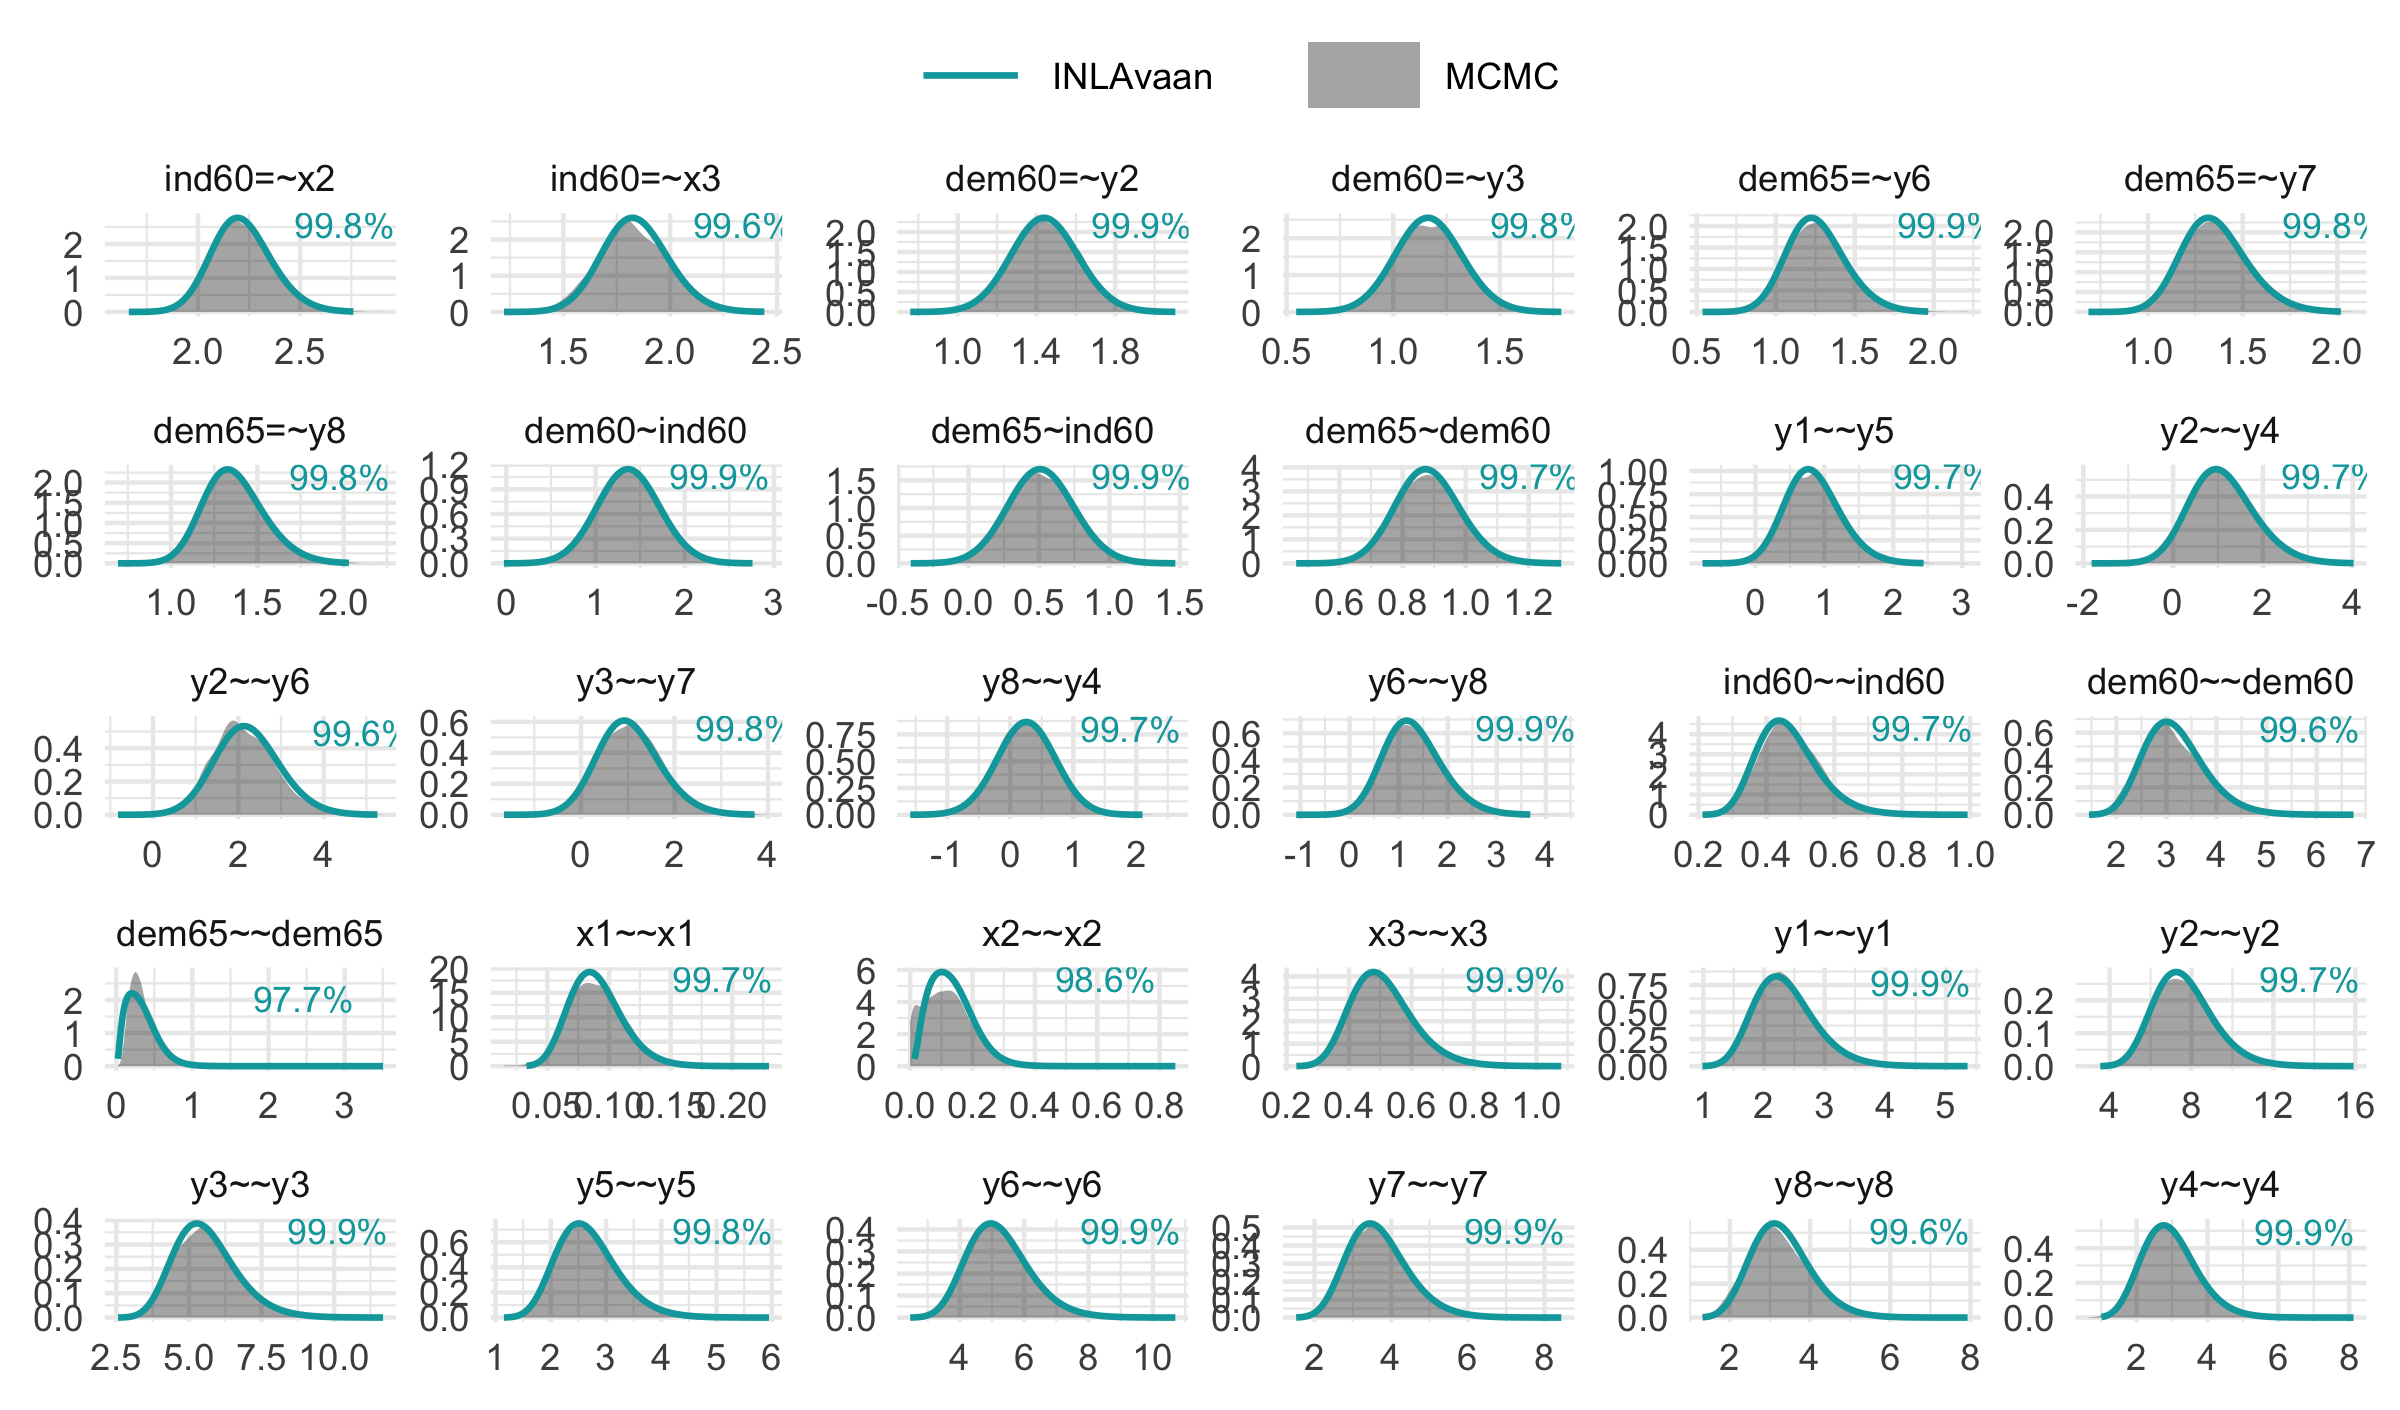
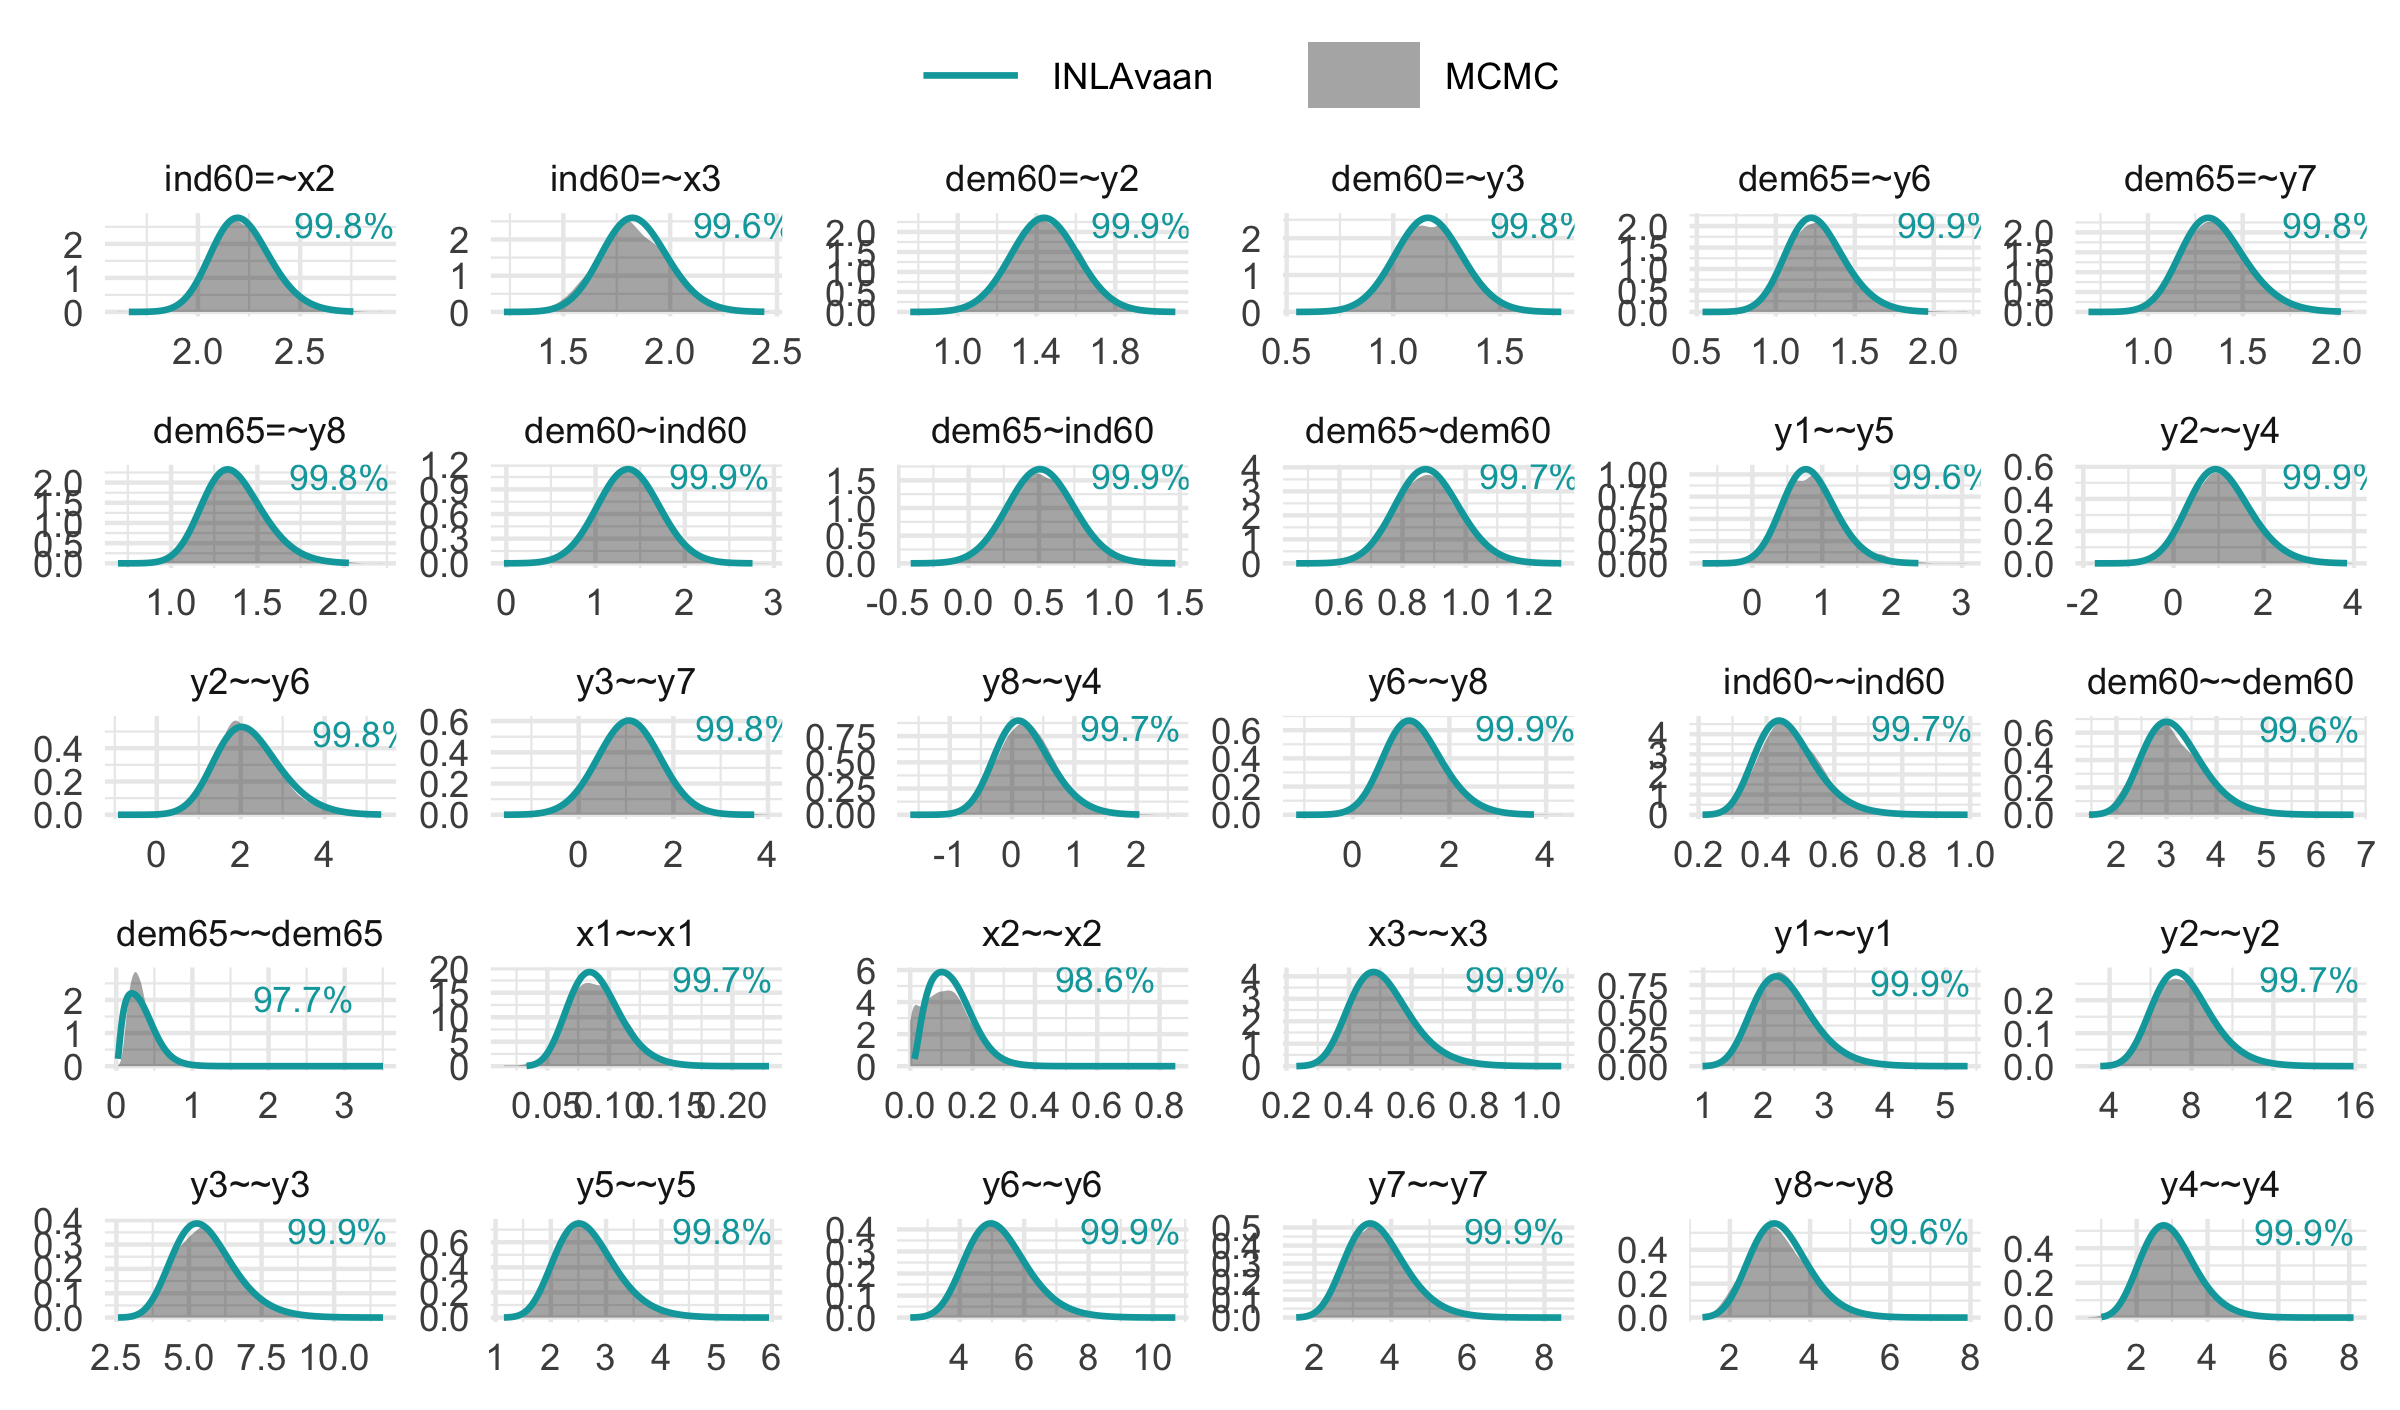
Update README

diff --git a/README.md b/README.md
@@ -14,9 +14,9 @@ coverage](https://codecov.io/gh/haziqj/INLAvaan/branch/main/graph/badge.svg)](ht
 [![Dependencies](https://tinyverse.netlify.app/badge/INLAvaan)](https://cran.r-project.org/package=INLAvaan)
 [![CRAN
 Downloads](http://cranlogs.r-pkg.org/badges/grand-total/INLAvaan)](https://cran.r-project.org/package=INLAvaan)
-![GitHub Repo
-stars](https://img.shields.io/github/stars/haziqj/inlavaan)
-<!-- [![GitHub Repo stars](https://img.shields.io/github/stars/haziqj/inlavaan)](https://github.com/haziqj/INLAvaan/stargazers) -->
+[![GitHub Repo
+stars](https://img.shields.io/github/stars/haziqj/inlavaan)](https://github.com/haziqj/INLAvaan/stargazers)
+<!-- ![GitHub Repo stars](https://img.shields.io/github/stars/haziqj/inlavaan) -->
 <!-- badges: end -->
 
 > Efficient approximate Bayesian inference for Structural Equation
@@ -74,20 +74,19 @@ utils::data("PoliticalDemocracy", package = "lavaan")
 
 fit <- asem(model = mod_poldem, data = PoliticalDemocracy)
 #> ℹ Mode finding and Hessian computation.
-#> ✔ Posterior mode and Hessian. [90ms]
+#> ✔ Posterior mode and Hessian. [94ms]
 #> 
 #> ℹ Performing VB correction.
-#> ✔ VB correction; mean |δ| = 0.157σ. [103ms]
+#> ✔ VB correction; mean |δ| = 0.157σ. [106ms]
 #> 
 #> ⠙ Fitting 0/30 skew-normal marginals.
-#> ✔ Fit 30/30 skew-normal marginals. [951ms]
+#> ✔ Fit 30/30 skew-normal marginals. [895ms]
 #> 
 #> ℹ Adjusting copula correlations (NORTA).
-#> ✔ Adjust copula correlations (NORTA). [100ms]
+#> ✔ Adjust copula correlations (NORTA). [198ms]
 #> 
 #> ⠙ Posterior sampling and summarising.
-#> ⠹ Computing fit indices (PPP/DIC).
-#> ✔ Summarise 1000 posterior draws. [503ms]
+#> ✔ Summarise 1000 posterior draws. [494ms]
 #> 
 #> ℹ Fit measures: PPP, DIC, LOO, WAIC.
 
@@ -103,12 +102,12 @@ summary(fit)
 #> Model Test (User Model):
 #> 
 #>    Marginal log-likelihood                   -1659.573 
-#>    PPP (Chi-square)                              0.464 
+#>    PPP (Chi-square)                              0.493 
 #> 
 #> Information Criteria:
 #> 
-#>    Deviance (DIC)                             3175.519 
-#>    Effective parameters (pD)                    29.787 
+#>    Deviance (DIC)                             3174.665 
+#>    Effective parameters (pD)                    29.360 
 #> 
 #> Parameter Estimates:
 #> 
@@ -144,16 +143,16 @@ summary(fit)
 #> Covariances:
 #>                    Estimate       SD     2.5%    97.5%     NMAD    Prior       
 #>  .y1 ~~                                                                        
-#>    .y5                0.836    0.401    0.111    1.687    0.005       beta(1,1)
+#>    .y5                0.832    0.386    0.133    1.649    0.005       beta(1,1)
 #>  .y2 ~~                                                                        
-#>    .y4                1.102    0.729   -0.201    2.662    0.004       beta(1,1)
-#>    .y6                2.221    0.760    0.809    3.795    0.011       beta(1,1)
+#>    .y4                1.052    0.699   -0.214    2.532    0.004       beta(1,1)
+#>    .y6                2.211    0.784    0.837    3.911    0.011       beta(1,1)
 #>  .y3 ~~                                                                        
-#>    .y7                1.032    0.670   -0.186    2.447    0.005       beta(1,1)
+#>    .y7                1.064    0.661   -0.232    2.360    0.005       beta(1,1)
 #>  .y8 ~~                                                                        
-#>    .y4                0.256    0.461   -0.646    1.159    0.003       beta(1,1)
+#>    .y4                0.205    0.460   -0.607    1.197    0.003       beta(1,1)
 #>  .y6 ~~                                                                        
-#>    .y8                1.297    0.596    0.244    2.583    0.005       beta(1,1)
+#>    .y8                1.291    0.615    0.192    2.606    0.005       beta(1,1)
 #> 
 #> Variances:
 #>                    Estimate       SD     2.5%    97.5%     NMAD    Prior       